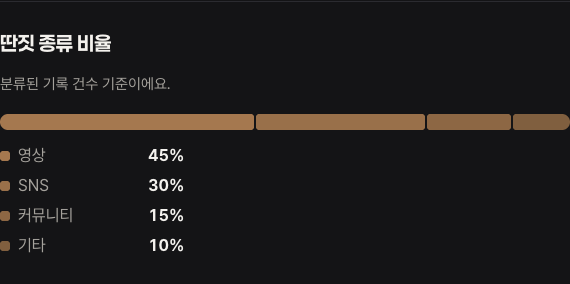
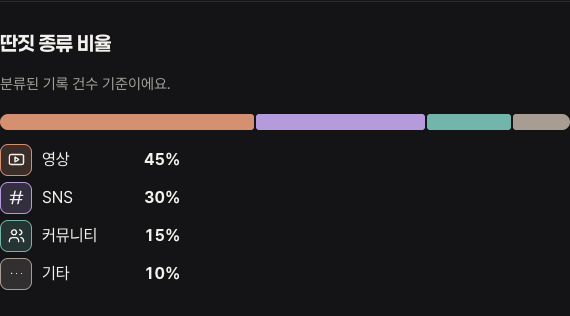
style: 딴짓 종류별 아이콘과 색상 추가

diff --git a/apps/desktop/features/report/SessionResult.tsx b/apps/desktop/features/report/SessionResult.tsx
@@ -11,9 +11,15 @@ const POLL_MS = 5000
 const timeFormat = new Intl.DateTimeFormat('ko-KR', { hour: 'numeric', minute: '2-digit' })
 const pauseTimeFormat = new Intl.DateTimeFormat('ko-KR', { hour: 'numeric', minute: '2-digit', second: '2-digit' })
 const offTaskPercent = new Intl.NumberFormat('ko-KR', { style: 'percent', maximumFractionDigits: 1 })
-const OFF_TASK_LABEL: Record<OffTaskShare['category'], string> = {
-  VIDEO: '영상', SNS: 'SNS', COMMUNITY: '커뮤니티', SHOPPING: '쇼핑',
-  GAME: '게임', MESSENGER: '메신저', NEWS: '뉴스', OTHER: '기타',
+const OFF_TASK_STYLE: Record<OffTaskShare['category'], { label: string; color: string; icon: string }> = {
+  VIDEO: { label: '영상', color: '#d59072', icon: 'M4 5h16a2 2 0 0 1 2 2v10a2 2 0 0 1-2 2H4a2 2 0 0 1-2-2V7a2 2 0 0 1 2-2ZM10 8.5l5 3.5-5 3.5z' },
+  SNS: { label: 'SNS', color: '#b59bdc', icon: 'M10 3L6 21M18 3l-4 18M4 9h17M3 15h17' },
+  COMMUNITY: { label: '커뮤니티', color: '#72b5aa', icon: 'M15 21v-2a4 4 0 0 0-4-4H6a4 4 0 0 0-4 4v2m20 0v-2a4 4 0 0 0-4-4M16 4a3.5 3.5 0 0 1 0 7m-4-3.5a3.5 3.5 0 1 1-7 0 3.5 3.5 0 0 1 7 0Z' },
+  SHOPPING: { label: '쇼핑', color: '#d6ad60', icon: 'M4 8h16l1 13H3L4 8Zm4 2V7a4 4 0 1 1 8 0v3' },
+  GAME: { label: '게임', color: '#8daada', icon: 'M7 7h10a4 4 0 0 1 4 3.5l1 5.5a2.5 2.5 0 0 1-4.2 2.2L15.5 16h-7l-2.3 2.2A2.5 2.5 0 0 1 2 16l1-5.5A4 4 0 0 1 7 7Zm1 3v4m-2-2h4m6 0h.01M18 10h.01' },
+  MESSENGER: { label: '메신저', color: '#d092b5', icon: 'M5 4h14a2 2 0 0 1 2 2v10a2 2 0 0 1-2 2h-9l-5 3v-3a2 2 0 0 1-2-2V6a2 2 0 0 1 2-2Zm3 7h.01m4 0h.01m4 0h.01' },
+  NEWS: { label: '뉴스', color: '#9db378', icon: 'M5 4h15v14a2 2 0 0 1-2 2H5a2 2 0 0 1-2-2V8h2m0-4v14m4-9h7m-7 4h7m-7 4h4' },
+  OTHER: { label: '기타', color: '#a79d92', icon: 'M5 12h.01m7 0h.01m7 0h.01' },
 }
 const AUTO_PAUSE_LABEL: Record<string, string> = { REQUIRED_PERMISSION: '권한 꺼짐', EXTENSION_UNLINKED: '연결 끊김', APP_RESTART: '앱 재시작', SYSTEM: '시스템' }
 // 학습 정리 상태별 한 줄(FocusOn-design/session-report.html `learningHtml`). 시스템 안내라 존댓말이다.
@@ -201,10 +207,6 @@ function OffTaskBreakdown({ sessionId }: { sessionId: string }) {
     return () => { cancelled = true }
   }, [sessionId, attempt])
 
-  const rows = Array.isArray(breakdown) ? breakdown.map(({ category, share }, index) => ({
-    category, share, color: `color-mix(in srgb, var(--flow-other) ${100 - index * 10}%, var(--gold-soft))`,
-  })) : []
-
   return <section className="block" aria-labelledby="off-task-title">
     <div className="block-head"><h2 id="off-task-title">딴짓 종류 비율</h2></div>
     {breakdown === null ? <p className="muted-note" role="status">딴짓 종류를 불러오고 있어요.</p>
@@ -214,16 +216,22 @@ function OffTaskBreakdown({ sessionId }: { sessionId: string }) {
           setBreakdown(null)
           setAttempt((value) => value + 1)
         }}>딴짓 종류 다시 시도</button>
-      </> : rows.length === 0 ? <p className="muted-note">분류된 딴짓 기록이 없어요.</p>
+      </> : breakdown.length === 0 ? <p className="muted-note">분류된 딴짓 기록이 없어요.</p>
         : <>
           <p className="muted-note">분류된 기록 건수 기준이에요.</p>
           <div className="track" aria-hidden="true">
-            {rows.map(({ category, share, color }) => <span key={category} style={{ flex: share, background: color }} />)}
+            {breakdown.map(({ category, share }) => <span key={category} style={{ flex: share, background: OFF_TASK_STYLE[category].color }} />)}
           </div>
           <ul className="off-task-legend" role="list">
-            {rows.map(({ category, share, color }) => <li key={category} style={{ '--category-color': color } as CSSProperties}>
-              <span>{OFF_TASK_LABEL[category]}</span><strong>{offTaskPercent.format(share)}</strong>
-            </li>)}
+            {breakdown.map(({ category, share }) => {
+              const { label, color, icon } = OFF_TASK_STYLE[category]
+              return <li key={category} style={{ '--category-color': color } as CSSProperties}>
+                <span className="off-task-icon" aria-hidden="true">
+                  <svg viewBox="0 0 24 24" fill="none" stroke="currentColor" strokeWidth="2" strokeLinecap="round" strokeLinejoin="round"><path d={icon} /></svg>
+                </span>
+                <span>{label}</span><strong>{offTaskPercent.format(share)}</strong>
+              </li>
+            })}
           </ul>
         </>}
   </section>

diff --git a/apps/desktop/features/report/session-result.css b/apps/desktop/features/report/session-result.css
@@ -60,8 +60,9 @@
 .result-window .rate { margin: 18px 0 0; font-size: 15px; line-height: 1.6; }
 .result-window .rate strong { font-size: 20px; font-variant-numeric: tabular-nums; }
 .result-window .off-task-legend { display: grid; gap: 6px; margin: 14px 0 0; padding: 0; list-style: none; }
-.result-window .off-task-legend li { display: grid; grid-template-columns: 136px 1fr; align-items: baseline; gap: 12px; color: var(--muted); }
-.result-window .off-task-legend span::before { content: ''; display: inline-block; width: 10px; height: 10px; margin-right: 8px; border-radius: 3px; background: var(--category-color); }
+.result-window .off-task-legend li { display: grid; grid-template-columns: 32px minmax(0, 92px) 1fr; align-items: center; gap: 10px; color: var(--ink); }
+.result-window .off-task-icon { display: grid; place-items: center; width: 32px; height: 32px; border: 1px solid var(--category-color); border-radius: 8px; background: color-mix(in srgb, var(--category-color) 20%, var(--surface)); }
+.result-window .off-task-icon svg { width: 17px; height: 17px; }
 .result-window .off-task-legend strong { color: var(--ink); font-variant-numeric: tabular-nums; }
 .result-window .rate small { display: block; color: var(--muted); font-size: 13px; }
 .result-window .muted-note { margin: 14px 0 0; color: var(--muted); font-size: 15px; line-height: 1.6; word-break: keep-all; }

diff --git a/apps/desktop/docs/features/report-off-task-category-REPORT.md b/apps/desktop/docs/features/report-off-task-category-REPORT.md
@@ -6,13 +6,13 @@
 ## 구현 결과
 
 - Main이 분석 이력의 `UNRELATED` 중 유효한 분류가 있는 건수로 종류별 비율을 계산한다. 이전 기록의 null과 누락을 제외하고 서버가 지정한 `OTHER`는 기타로 세며, 렌더러에는 종류와 비율만 전달한다.
-- 집중 리포트에 디자인의 가로 막대와 종류·비율 목록을 넣었다. 종류 조회에 실패하면 다른 영역을 유지하고 종류 조회만 다시 시도할 수 있다.
+- 집중 리포트에 디자인의 가로 막대와 종류·비율 목록을 넣었다. 종류마다 고정 색과 아이콘을 쓰고 이름과 비율을 함께 표시한다. 종류 조회에 실패하면 다른 영역을 유지하고 종류 조회만 다시 시도할 수 있다.
 - 온보딩·설정에서 같은 화면 분석 동의 상세를 보여 주며 저장 항목에 정책의 딴짓 종류 문구를 추가했다.
 
 ## 검증과 제한
 
 - macOS arm64, Electron 44.1.0. Electron 테스트 217개, TypeScript, 프로덕션 빌드 통과. 린트 오류 0개(기존 온보딩 이미지 경고 2개).
-- 빌드된 화면에 모의 IPC 응답을 주어 45·30·15·10% 표시, 빈 기록, 다른 영역을 유지한 채 다시 시도, 온보딩과 설정의 동의 상세를 확인했다.
+- 빌드된 화면에 모의 IPC 응답을 주어 45·30·15·10% 표시, 빈 기록, 다른 영역을 유지한 채 다시 시도, 온보딩과 설정의 동의 상세를 확인했다. 라이트·다크에서 막대와 아이콘을 확인하고, 좁은 화면에서 8종의 아이콘과 표시를 검증했다.
 - 실제 집중 세션에서 분류를 만든 뒤 동일 회차 리포트에 표시되는 흐름은 실기기 QA 대상으로 남는다.
 
 ![합성 데이터로 확인한 딴짓 종류 비율](screenshots/off-task-breakdown.png)

diff --git a/apps/desktop/docs/features/report-off-task-category-PLAN.md b/apps/desktop/docs/features/report-off-task-category-PLAN.md
@@ -12,7 +12,7 @@
 
 ## 사용자 흐름
 
-1. 세션 종료 후 집중 리포트에서 딴짓 종류별 막대와 비율을 확인한다.
+1. 세션 종료 후 집중 리포트에서 딴짓 종류별 막대와 비율을 확인한다. 목록의 고정 색·아이콘·이름으로 8가지 종류를 구분한다.
 2. 분류된 기록이 없는 회차는 빈 상태를 보여 준다. 조회에 실패하면 이 영역에서 다시 시도한다.
 3. 온보딩의 자세히나 설정의 전문 보기에서 종류 저장의 목적을 확인한다.
 
